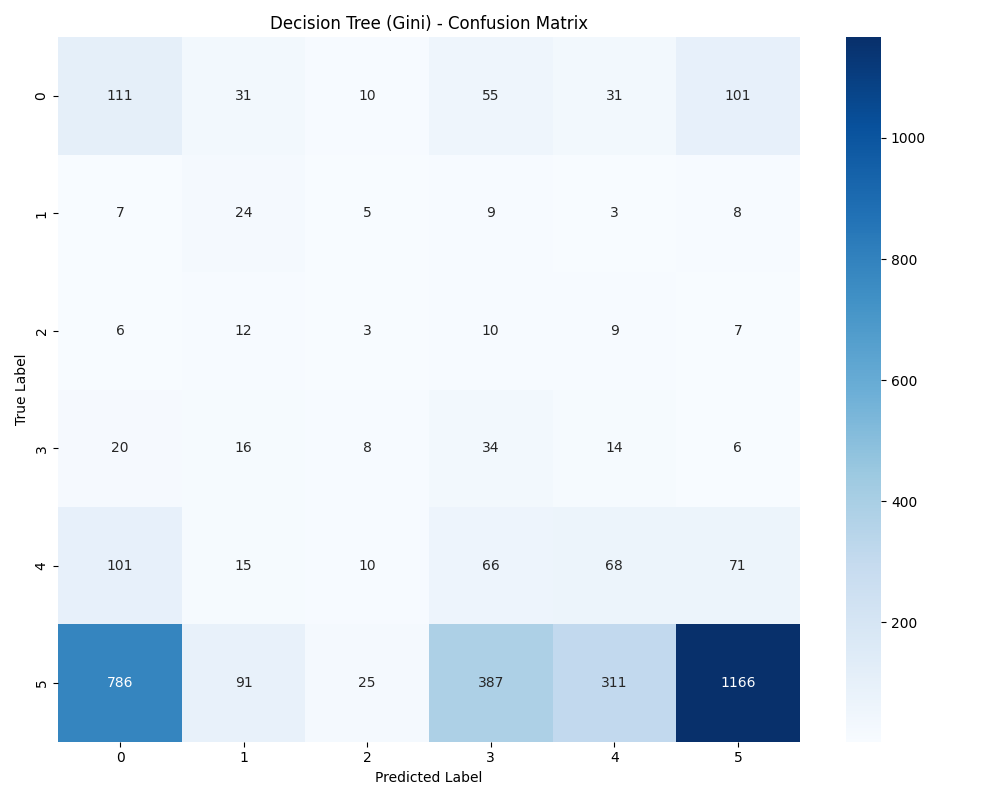
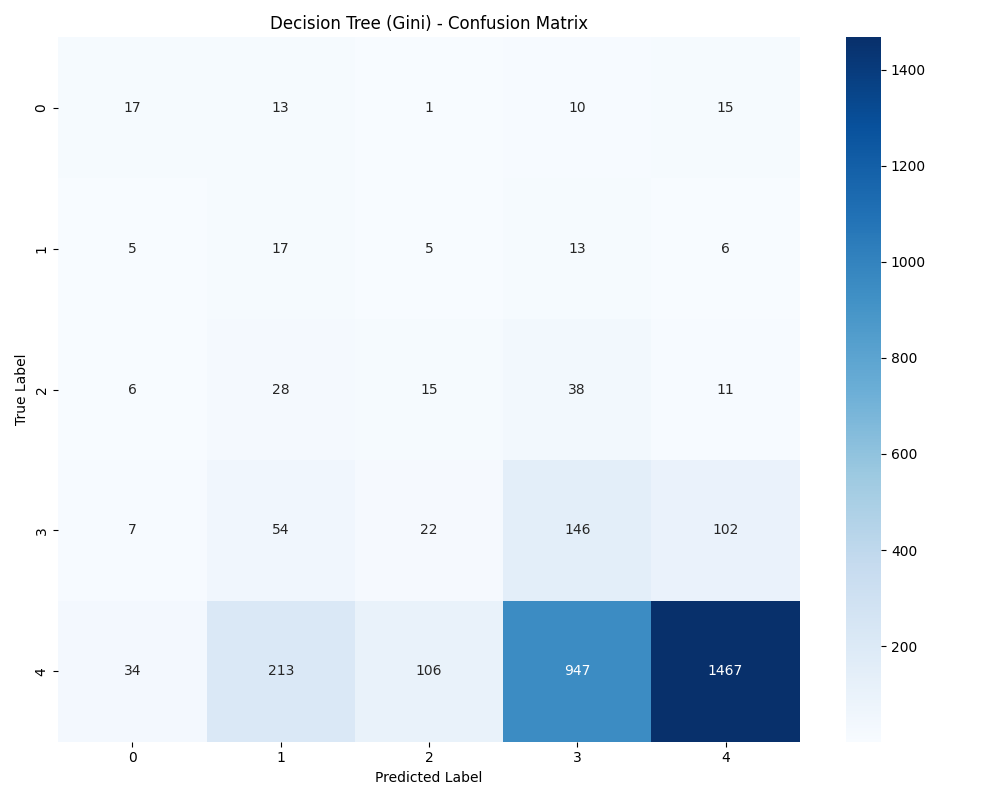
remove rows with zero star value in preprocessing

diff --git a/src/preprocessing.py b/src/preprocessing.py
@@ -20,6 +20,13 @@ def load_and_explore_data(X, y):
 
 def preprocess_data(X, y):
     """Data preprocessing"""
+    # Remove rows with 0 stars
+    non_zero_indices = y != 0
+    removed_rows = X.shape[0] - non_zero_indices.sum()
+    print(f"Rows removed after filtering non-zero stars: {removed_rows}")
+    X = X[non_zero_indices]
+    y = y[non_zero_indices]
+    
     # Fill missing values
     X = X.copy()
     X['text'] = X['text'].fillna('')
